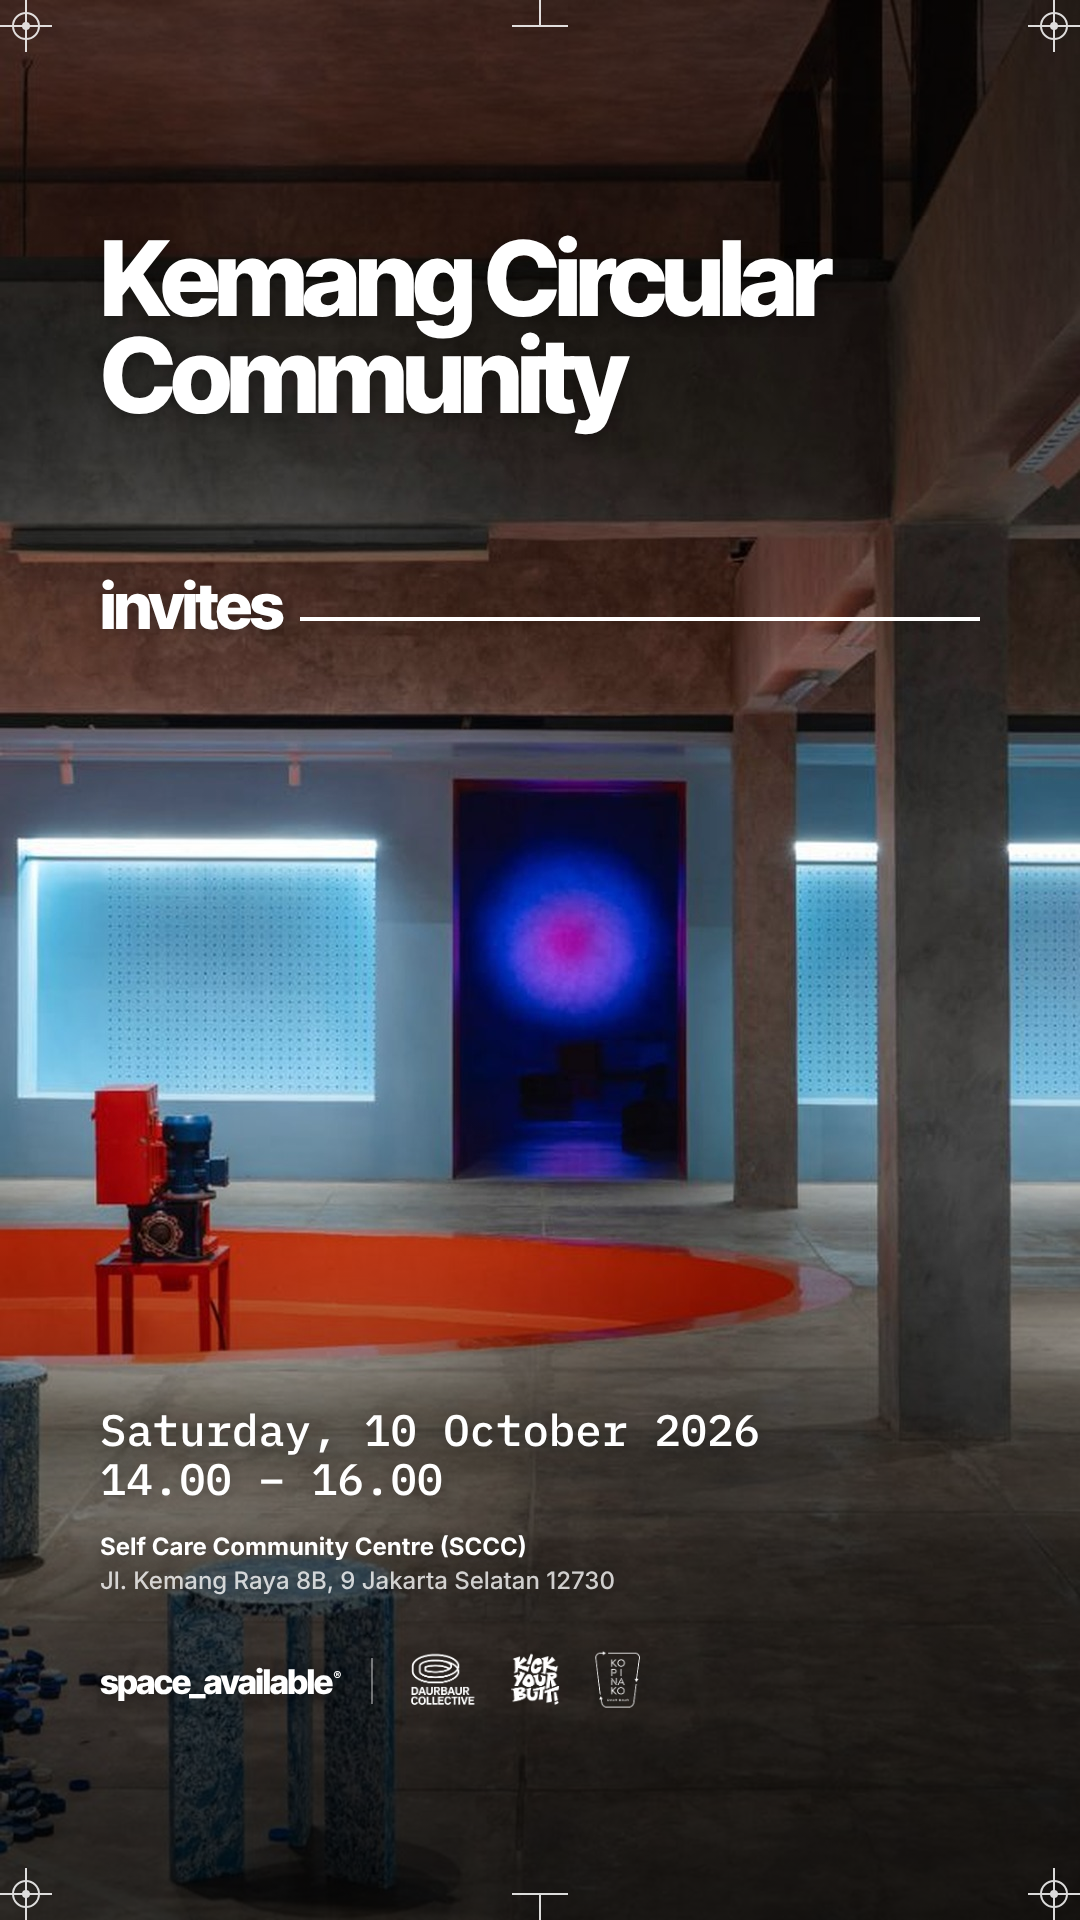
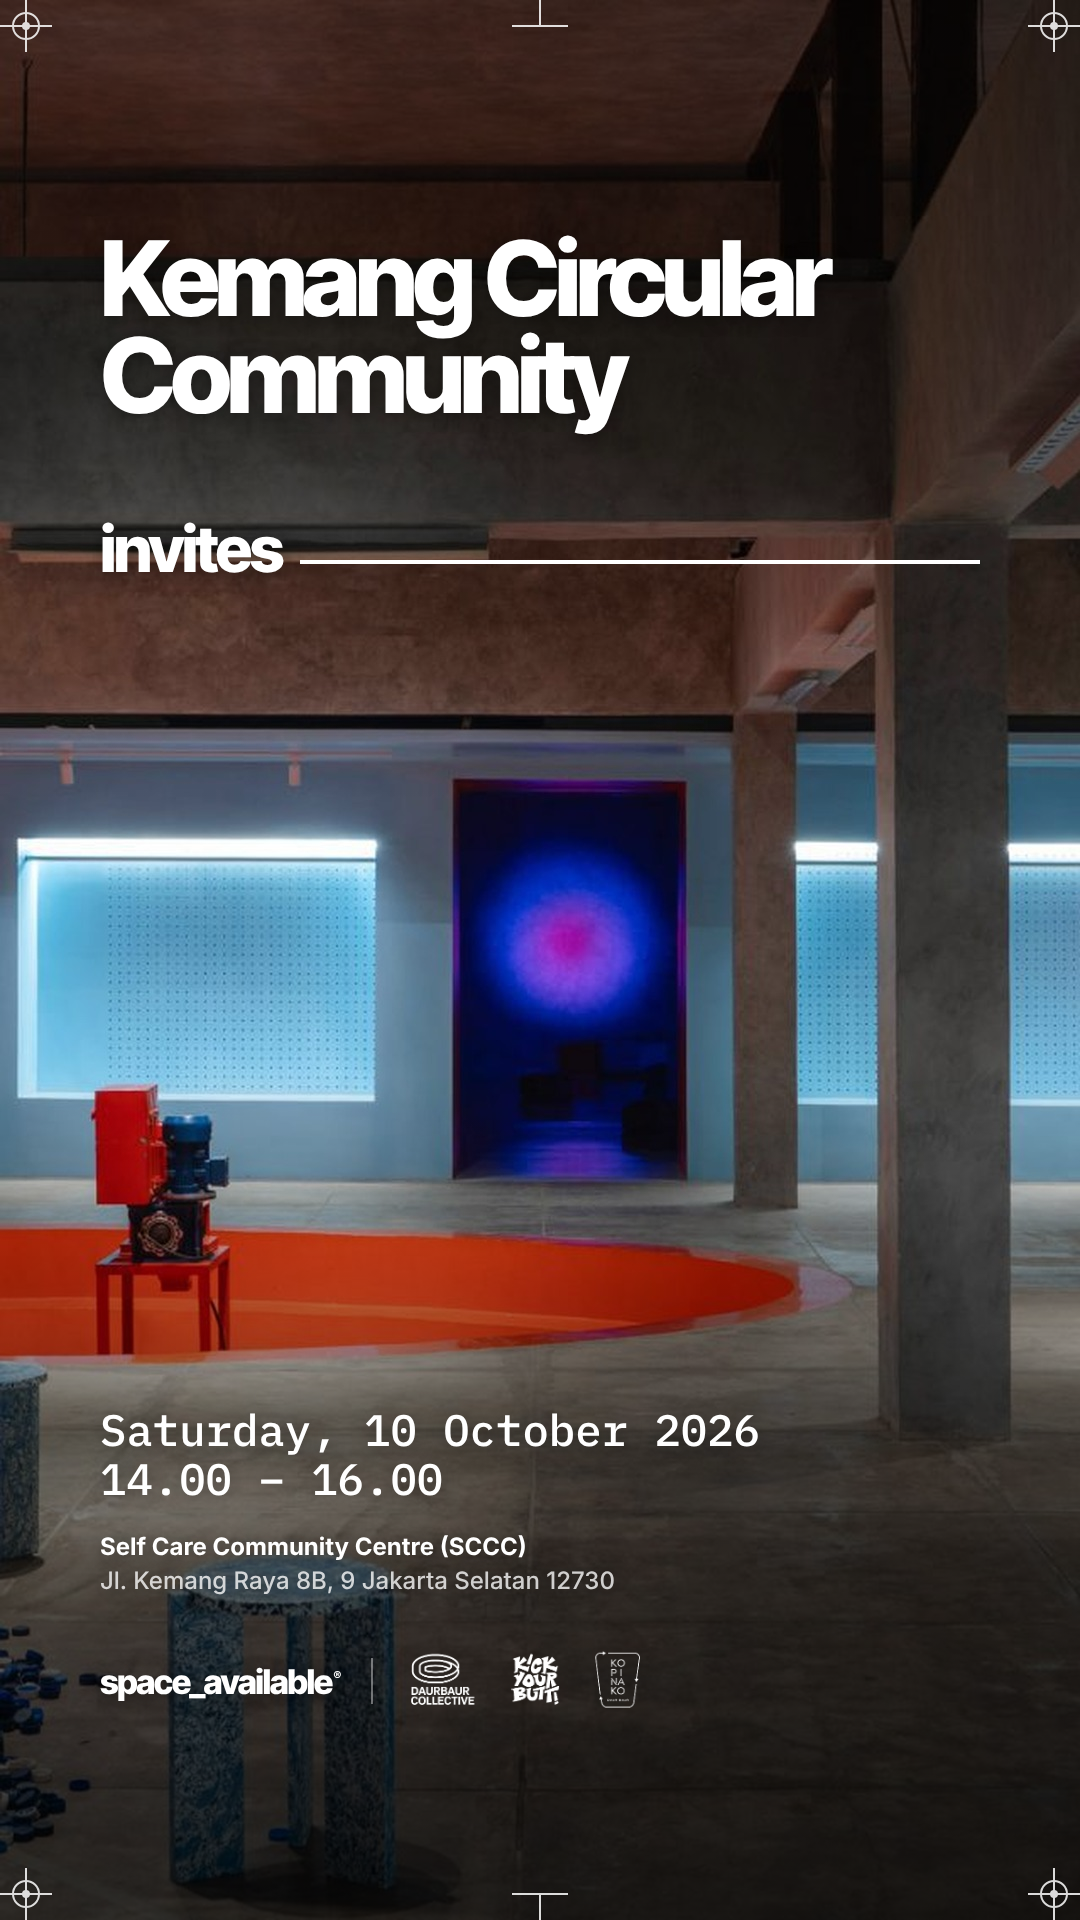
Hall invite: tighten gap above invites
Claude-Session: https://claude.ai/code/session_01MkepNVKUBixwkwPGrG164Z

Changed region(s): [[0.0917, 0.2812, 0.275, 0.3438]]

diff --git a/invite/kemang-circular-hall.html b/invite/kemang-circular-hall.html
@@ -15,7 +15,7 @@ body{width:1080px;height:1920px;background:#111;overflow:hidden;color:var(--fg);
 .mono{font-family:'IBM Plex Mono',monospace}
 
 .title{top:230px;font-family:'Inter Tight';font-weight:800;font-size:104px;line-height:.93;letter-spacing:-.055em}
-.invites{top:567px;display:flex;align-items:baseline;gap:18px}
+.invites{top:510px;display:flex;align-items:baseline;gap:18px}
 .invites .mark{font-size:64px}
 .invites .line{flex:1;border-bottom:4px solid #fff;transform:translateY(-8px)}
 .quote{top:590px;font-size:30px;line-height:1.25;color:var(--dim)}
